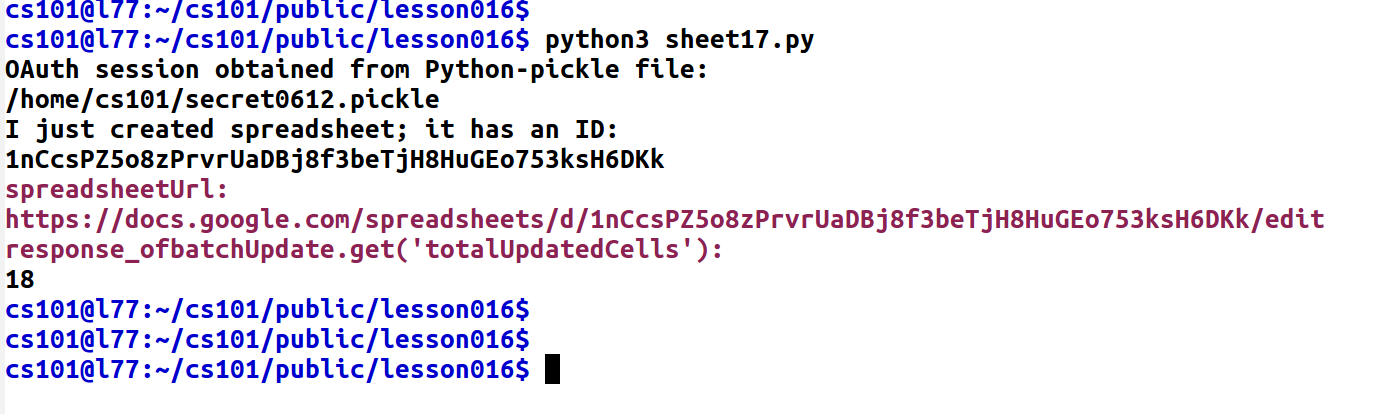
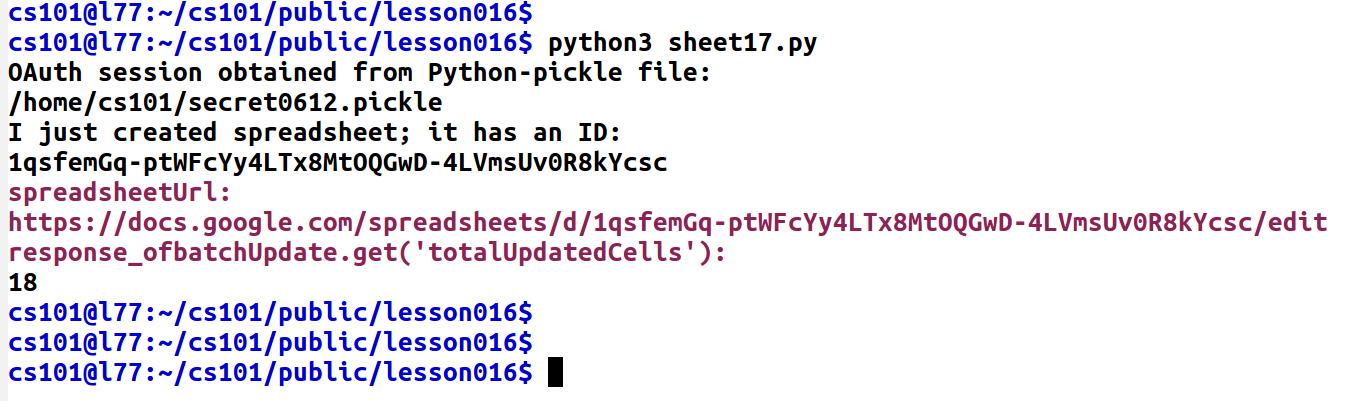
more

Changed region(s): [[0.0, 0.0, 0.9897, 0.9576]]

diff --git a/public/lesson016/sheet17.py b/public/lesson016/sheet17.py
@@ -26,7 +26,7 @@ print(pcklf_s)
 my_dt = datetime.datetime.utcnow()
 my_s  = datetime.datetime.strftime(my_dt, '%Y-%m-%d %H:%M:%S')
 
-title_s           = 'lesson017sheet ' + my_s
+title_s           = 'lesson016sheet ' + my_s
 service           = build('sheets', 'v4', credentials=creds)
 field_s           = 'spreadsheetUrl,spreadsheetId'
 body_d            = {'properties':{'title':title_s}}
